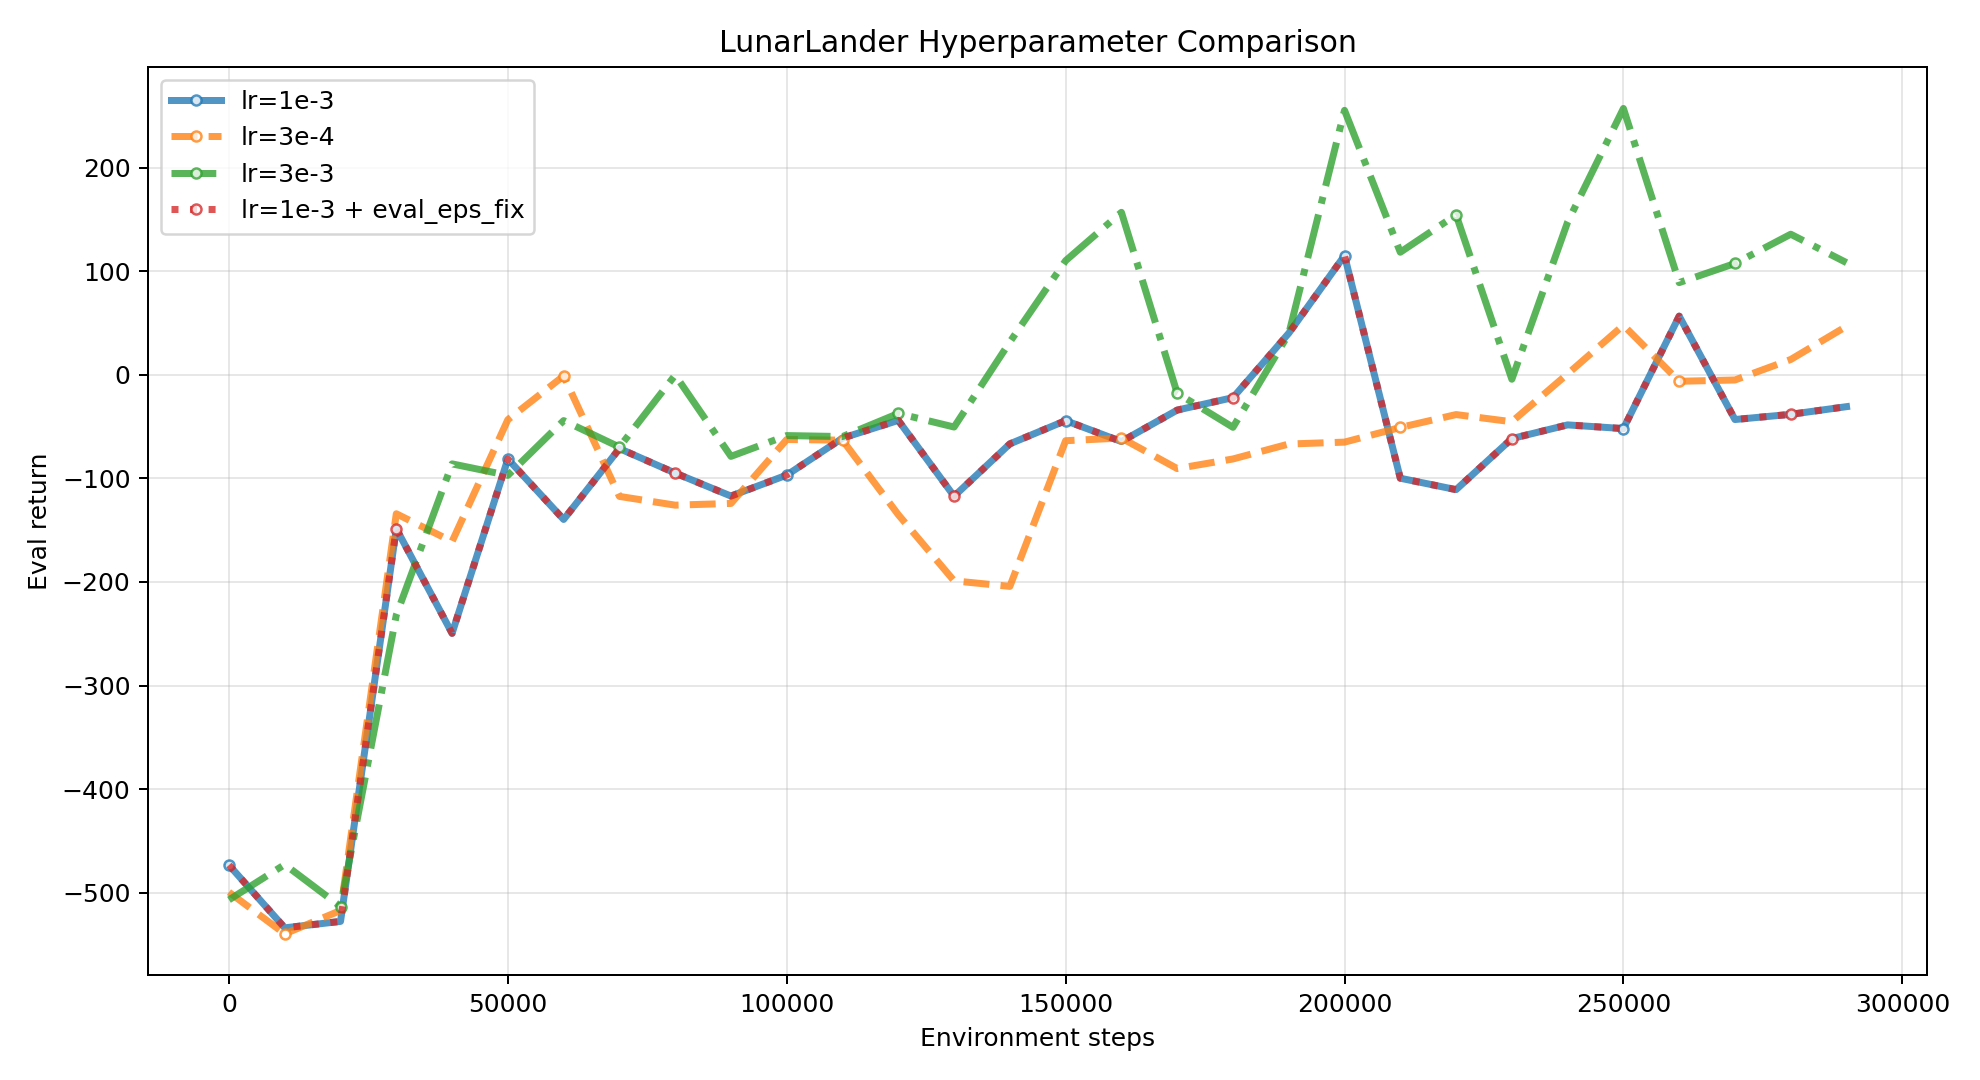
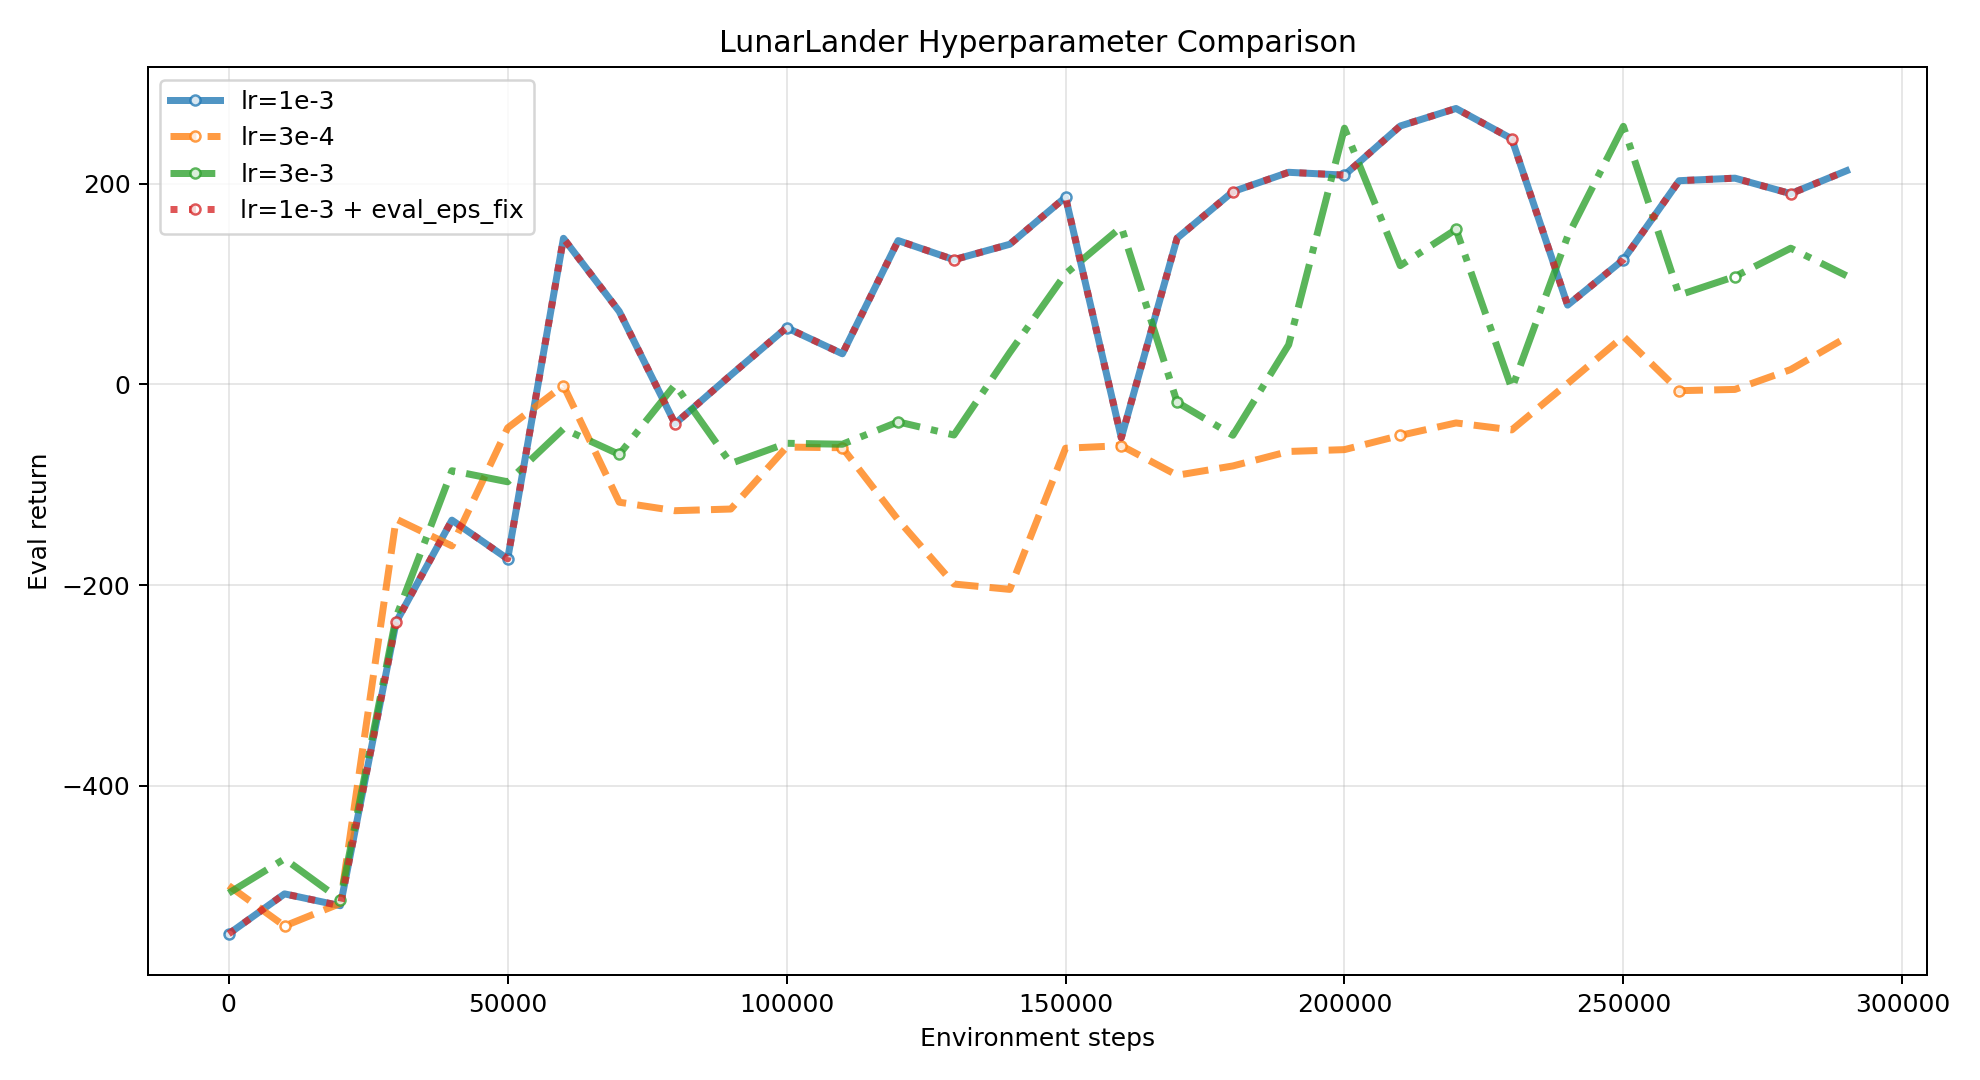
solve the bug

diff --git a/hw3/cs285/agents/soft_actor_critic.py b/hw3/cs285/agents/soft_actor_critic.py
@@ -202,7 +202,8 @@ class SoftActorCritic(nn.Module):
         """
         # reward/done은 보통 (batch,) 벡터
         (batch_size,) = reward.shape
-
+        reward = reward.float()
+        done = done.float()
         # Compute target values
         # Important: we don't need gradients for target values!
         with torch.no_grad():
@@ -228,7 +229,7 @@ class SoftActorCritic(nn.Module):
                 # TODO(student): Add entropy bonus to the target values for SAC
                 # SAC에서는 타깃에 alpha * H(pi(.|s_{t+1}))를 더해 탐험성을 보존
                 next_action_entropy = -next_action_distribution.log_prob(next_action) # shape (num_actor_samples, batch_size)
-                next_qs += temperature * next_action_entropy[None]  # actor 샘플 축 평균
+                next_qs += self.temperature * next_action_entropy[None]  # actor 샘플 축 평균
 
             # Compute the target Q-value
             # Bellman 타깃:

diff --git a/hw3/cs285/scripts/run_hw3_sac.py b/hw3/cs285/scripts/run_hw3_sac.py
@@ -19,7 +19,7 @@ import tqdm
 from cs285.infrastructure import utils
 from cs285.infrastructure.logger import Logger
 
-from scripting_utils import make_logger, make_config
+from cs285.scripts.scripting_utils import make_logger, make_config
 
 import argparse
 
